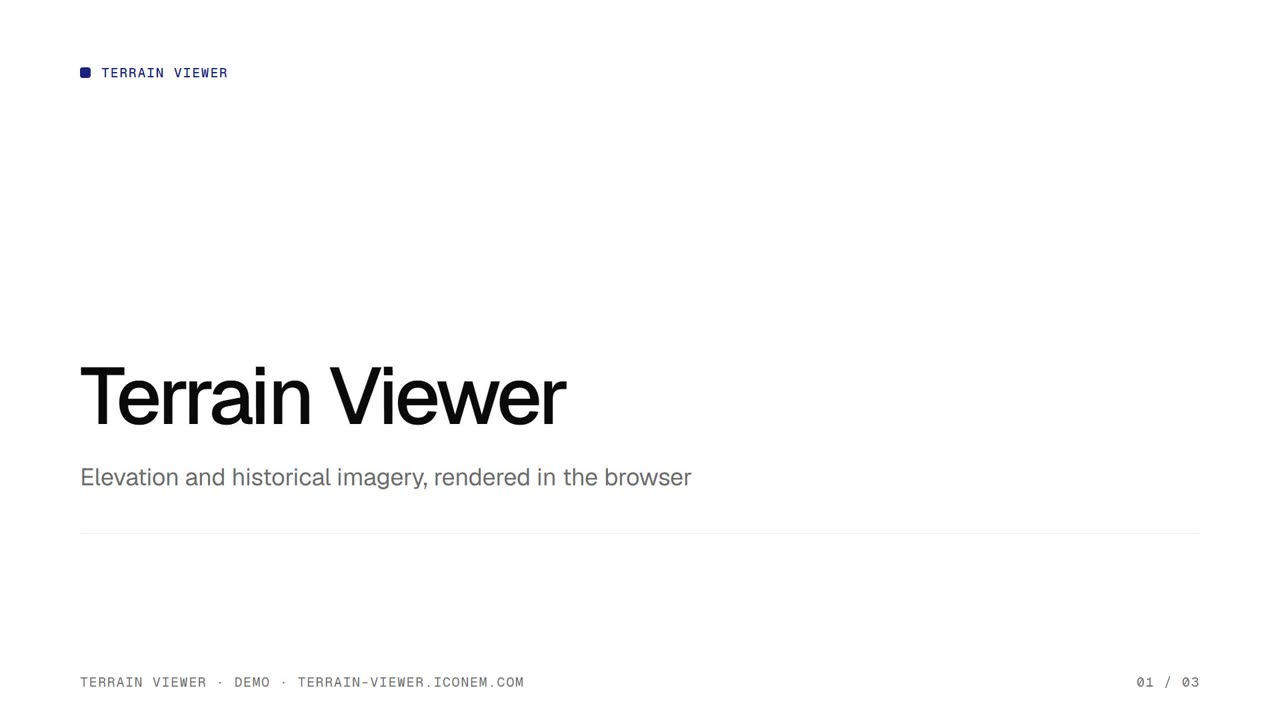
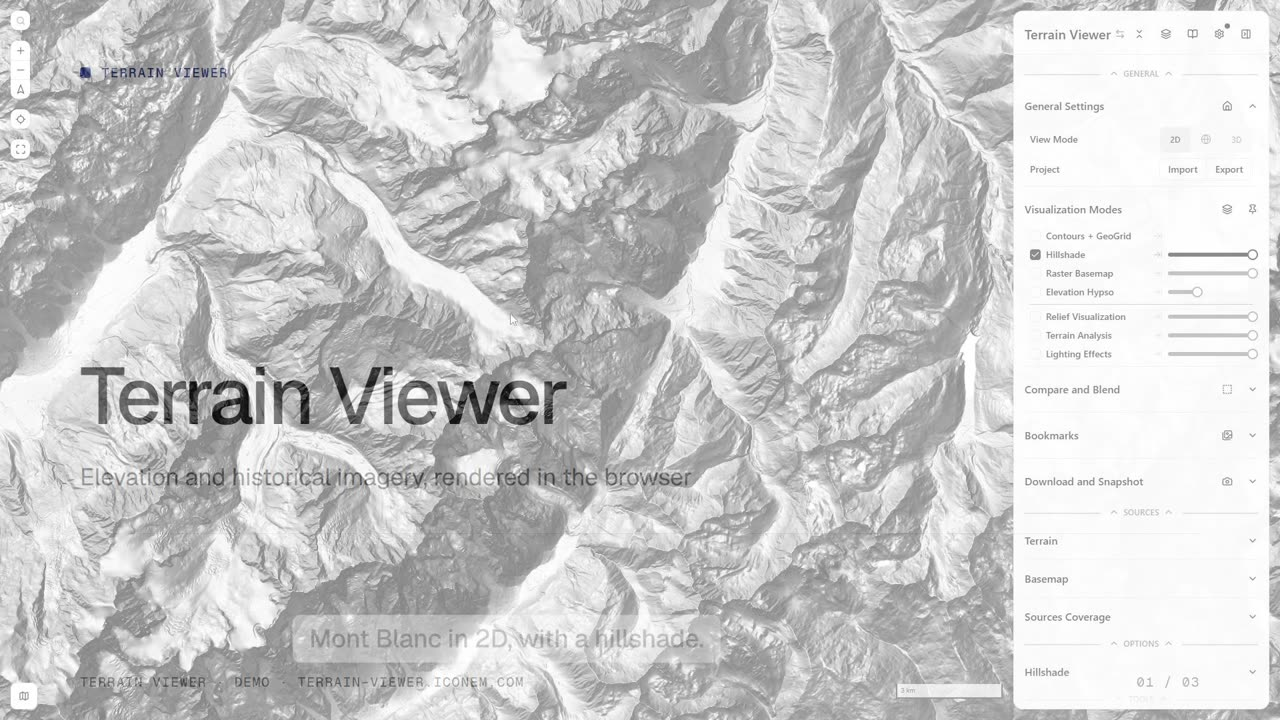
OSM 3D buildings over any basemap: with the 3D switch on, Liberty's extrusion layer alone is installed above Google, Esri or a terrain-only view (OsmBuildingsLayer), not only with the OSM basemap. Docs: diagrams rendered at build time with beautiful-mermaid (one SVG per colour scheme, a code block f

diff --git a/docs/src/components/mermaid.tsx b/docs/src/components/mermaid.tsx
@@ -1,59 +1,40 @@
-'use client';
+// remarkMdxMermaid (source.config.ts) turns ```mermaid fences into
+// <Mermaid chart="..."/>. Rendered at build time with beautiful-mermaid
+// (no DOM, no Mermaid runtime in the browser): the SVG sits in the static
+// HTML, so no bundle on diagram pages and no flash before the diagram shows.
+// Two SVGs are rendered, one per colour scheme, and CSS shows the one that
+// matches the theme (the library takes hex colours, not CSS variables: it
+// derives the secondary colours from bg and fg). The values are the docs'
+// own light and dark tokens. Covered diagram types: flowchart, class,
+// sequence, state, entity relationship, gantt; the docs use the first two.
+// A diagram the library cannot parse falls back to its source in a code block.
+import { renderMermaidSVG } from 'beautiful-mermaid';
 
-import { useEffect, useRef, useState } from 'react';
+const LIGHT = { bg: '#ffffff', fg: '#0a0a0a', accent: '#1a237e', font: 'Geist, Inter, system-ui, sans-serif', transparent: true } as const;
+const DARK = { bg: '#0a0a0a', fg: '#fafafa', accent: '#8c9eff', font: 'Geist, Inter, system-ui, sans-serif', transparent: true } as const;
 
-// remarkMdxMermaid (see source.config.ts) turns ```mermaid fences into
-// <Mermaid chart="..."> — fumadocs-ui doesn't ship a renderer for it in this
-// version, so this is a from-scratch client component. mermaid.js renders to
-// SVG using real browser DOM APIs, so this only works client-side (dynamic
-// import, useEffect) even though the site is otherwise statically exported.
-function useIsDark() {
-  const [isDark, setIsDark] = useState(false);
-
-  useEffect(() => {
-    const root = document.documentElement;
-    const update = () => setIsDark(root.classList.contains('dark'));
-    update();
-    const observer = new MutationObserver(update);
-    observer.observe(root, { attributes: true, attributeFilter: ['class'] });
-    return () => observer.disconnect();
-  }, []);
-
-  return isDark;
+function render(chart: string, colors: typeof LIGHT | typeof DARK): string | null {
+  try {
+    return renderMermaidSVG(chart, { ...colors, padding: 16 });
+  } catch {
+    return null;
+  }
 }
 
-let mermaidIdCounter = 0;
-
 export function Mermaid({ chart }: { chart: string }) {
-  const [svg, setSvg] = useState<string | null>(null);
-  const idRef = useRef(`mermaid-${++mermaidIdCounter}`);
-  const isDark = useIsDark();
-
-  useEffect(() => {
-    let cancelled = false;
-    import('mermaid').then(async ({ default: mermaid }) => {
-      mermaid.initialize({
-        startOnLoad: false,
-        theme: isDark ? 'dark' : 'neutral',
-        securityLevel: 'strict',
-        fontFamily: 'inherit',
-      });
-      const { svg } = await mermaid.render(idRef.current, chart);
-      if (!cancelled) setSvg(svg);
-    });
-    return () => {
-      cancelled = true;
-    };
-  }, [chart, isDark]);
-
-  if (!svg) {
+  const light = render(chart, LIGHT);
+  const dark = render(chart, DARK);
+  if (!light || !dark) {
     return (
-      <div className="my-4 animate-pulse rounded-lg border bg-fd-muted/40 p-8 text-center text-sm text-fd-muted-foreground">
-        Rendering diagram…
-      </div>
+      <pre className="overflow-x-auto rounded-lg border bg-fd-muted p-4 text-sm">
+        <code>{chart}</code>
+      </pre>
     );
   }
-
-  // eslint-disable-next-line react/no-danger -- mermaid's own SVG output, not user input
-  return <div className="my-4 flex justify-center overflow-x-auto rounded-lg border bg-fd-card p-4 [&_svg]:h-auto [&_svg]:max-w-full" dangerouslySetInnerHTML={{ __html: svg }} />;
+  return (
+    <div className="my-6 overflow-x-auto [&_svg]:mx-auto [&_svg]:h-auto [&_svg]:max-w-full">
+      <div className="dark:hidden" dangerouslySetInnerHTML={{ __html: light }} />
+      <div className="hidden dark:block" dangerouslySetInnerHTML={{ __html: dark }} />
+    </div>
+  );
 }

diff --git a/components/LayersAndSources/MapSources.tsx b/components/LayersAndSources/MapSources.tsx
@@ -1,10 +1,10 @@
 import { memo, useMemo, useState, useEffect, useRef } from "react"
-import { VectorBasemapLayer } from "./VectorBasemapLayer"
+import { VectorBasemapLayer, OsmBuildingsLayer } from "./VectorBasemapLayer"
 import { Source } from "react-map-gl/maplibre"
 import { useAtom, useAtomValue } from "jotai"
 import { terrainSources } from "@/lib/terrain-sources"
 import type { TerrainSource, TerrainSourceConfig } from "@/lib/terrain-types"
-import { useCogProtocolVsTitilerAtom, highResTerrainAtom, viewportCenterAtom, cesiumDetailOffsetAtom, allmapsRemoveColorAtom, type CustomTerrainSource, type AllmapsRemoveColor } from "@/lib/settings-atoms"
+import { useCogProtocolVsTitilerAtom, highResTerrainAtom, viewportCenterAtom, cesiumDetailOffsetAtom, osmBuildings3dAtom, allmapsRemoveColorAtom, type CustomTerrainSource, type AllmapsRemoveColor } from "@/lib/settings-atoms"
 import { buildUnpaperUrl, sampleTileFor } from "@/lib/unpaper-protocol"
 
 /** A scanned map's tile template through unpaper:// when the paper removal
@@ -495,6 +495,7 @@ export const RasterBasemapSource = memo(({
 }) => {
     const [useCogProtocol] = useAtom(useCogProtocolVsTitilerAtom)
     const cesiumDetailOffset = useAtomValue(cesiumDetailOffsetAtom)
+    const osmBuildings3d = useAtomValue(osmBuildings3dAtom)
     // Unused directly — read so this component re-renders when a local COG file
     // is (re-)picked (see custom-source-details.tsx's "Re-select file…" flow).
     useAtomValue(localFileVersionAtom)
@@ -608,9 +609,13 @@ export const RasterBasemapSource = memo(({
     // "osm" is OpenFreeMap's Liberty vector style, not raster tiles: the
     // layers are inserted at the basemap slot by VectorBasemapLayer.
     if (basemapSource === "osm") return <VectorBasemapLayer visible={vectorVisible} opacity={vectorOpacity} />
-    if (!sourceProps) return null
+    // The 3D switch next to OSM draws the extruded buildings over any other
+    // basemap too (and over a terrain-only view): Liberty's extrusion layer alone.
+    const buildings = osmBuildings3d ? <OsmBuildingsLayer /> : null
+    if (!sourceProps) return buildings
 
-    return (
+    return (<>
+        {buildings}
         <Source
             id="raster-basemap-source"
             // resolvedCogUrl in the key: re-picking a different file for the same
@@ -631,7 +636,7 @@ export const RasterBasemapSource = memo(({
             maxzoom={zoomRange.maxzoom}
             {...sourceProps}
         />
-    )
+    </>)
 })
 RasterBasemapSource.displayName = "RasterBasemapSource"
 

diff --git a/components/LayersAndSources/VectorBasemapLayer.tsx b/components/LayersAndSources/VectorBasemapLayer.tsx
@@ -104,3 +104,40 @@ export const VectorBasemapLayer: React.FC<{ opacity?: number; visible?: boolean 
 
   return null
 }
+
+/**
+ * The 3D buildings alone, over any other basemap: when the "3D" switch next
+ * to OSM (OpenFreeMap Liberty) is on but another basemap is selected, this
+ * installs Liberty's OpenMapTiles source and its fill-extrusion layer only,
+ * above the basemap slot, so the extruded buildings draw over Google, Esri or
+ * a terrain-only view. Removed on unmount; the switch off unmounts it.
+ */
+export const OsmBuildingsLayer: React.FC = () => {
+  const { current: mapRef } = useMap()
+  useEffect(() => {
+    const map = mapRef?.getMap()
+    if (!map) return
+    let cancelled = false
+    const added: { sources: string[]; layers: string[] } = { sources: [], layers: [] }
+    const install = (style: StyleSpecification) => {
+      if (cancelled || !map.getStyle()) return
+      const layer = style.layers.find((l) => l.id === "building-3d") as (LayerSpecification & { source?: string }) | undefined
+      if (!layer?.source) return
+      const sid = PREFIX + layer.source
+      if (!map.getSource(sid)) { map.addSource(sid, style.sources[layer.source] as SourceSpecification); added.sources.push(sid) }
+      const lid = `${PREFIX}building-3d-only`
+      if (!map.getLayer(lid)) {
+        const before = map.getLayer(LAYER_SLOTS.OVERLAYS) ? LAYER_SLOTS.OVERLAYS : undefined
+        try { map.addLayer({ ...layer, id: lid, source: sid } as LayerSpecification, before); added.layers.push(lid) } catch { /* style changed */ }
+      }
+    }
+    loadStyle().then(install).catch(() => {})
+    return () => {
+      cancelled = true
+      if (!map.getStyle()) return
+      for (const id of added.layers) { try { if (map.getLayer(id)) map.removeLayer(id) } catch { /* torn down */ } }
+      for (const id of added.sources) { try { if (map.getSource(id)) map.removeSource(id) } catch { /* torn down */ } }
+    }
+  }, [mapRef])
+  return null
+}

diff --git a/docs/src/app/(home)/page.tsx b/docs/src/app/(home)/page.tsx
@@ -28,15 +28,15 @@ const FEATURES = [
   {
     title: 'Historical Imagery',
     body: 'Browse decades of historical satellite imagery (Wayback, HLS, Google Earth Historical, Planet) along a draggable timeline, per view.',
-    image: '/docs/screenshots/historical-timeline.jpg',
-    alt: 'Scrubbing the historical imagery timeline',
+    image: '/docs/screenshots/timeline-tick-card.jpg',
+    alt: 'The historical timeline with a tick card open',
     href: '/features/historical-imagery',
   },
   {
     title: 'Split Screen & N-Map Compare',
     body: 'Side-by-side, overlay/blend, or up to an 8-view grid to compare terrain sources, basemaps, or historical dates against each other.',
-    image: '/docs/screenshots/n-grid.jpg',
-    alt: 'Comparing basemap sources side-by-side',
+    image: '/docs/screenshots/split-modes/viz-grid-4x2.jpg',
+    alt: 'Eight visualization modes in a 4 by 2 grid',
     href: '/features/split-modes',
   },
 ];
@@ -74,7 +74,7 @@ export default function HomePage() {
       {/* The narrated demo, from the Demo videos page's player: a poster
           until pressed, then the MP4 streams from the demo-takes release. */}
       <section className="mx-auto w-full max-w-6xl px-6 pt-16">
-        <h2 className="text-center text-2xl font-semibold tracking-tight">Two and a half minutes of it</h2>
+        <h2 className="text-center text-2xl font-semibold tracking-tight">Demo video</h2>
         <p className="mt-2 text-center text-fd-muted-foreground">Slope and hypsometric tint over Mont Blanc, then the Champ de Mars across fifteen years of imagery.</p>
         <DemoCut />
       </section>

diff --git a/docs/src/components/feature-lightbox.tsx b/docs/src/components/feature-lightbox.tsx
@@ -22,7 +22,7 @@ export function FeatureGrid({ features }: { features: Feature[] }) {
             src={f.image}
             alt={f.alt}
             loading="lazy"
-            className="w-full rounded-xl border object-cover transition-opacity group-hover:opacity-90"
+            className="aspect-video w-full rounded-xl border object-cover object-top transition-opacity group-hover:opacity-90"
           />
           <h2 className="text-lg font-semibold group-hover:underline">{f.title}</h2>
           <p className="text-sm text-fd-muted-foreground">{f.body}</p>

diff --git a/CHANGELOG.md b/CHANGELOG.md
@@ -1,3 +1,31 @@
+# Changelog — Shadows on Terrain, the Docs Home and Demo Videos, Eight Upstream Requests
+
+<!-- released: 2026-10-15 -->
+
+#### TL;DR
+
+- **The app**: building shadows drape on 3D terrain (MapLibre 6.13's new per-tile hook), the OSM 3D buildings draw over any basemap while their switch is on, B toggles the Overlay blend, a Bookmarks row in the storage settings, the see-through panel keeps the held control on its own band, a bottom sheet on phones, nine event DEMs and the Kilauea lidar in the library, the desktop launcher takes a project file.
+- **The docs**: a real home page with the demo embedded, a Demo videos page (the narrated cut, the two takes, a screencast by hand), Fumadocs Studio for visual editing with an Edit in Studio button, Fumadocs 16.17.3 with the stock page actions back, diagrams rendered at build time, app buttons in the header and the sidebar, short sidebar titles.
+- **Upstream**: eight requests posted this week with reproductions and pictures (Allmaps, Electrobun, MapLibre, geomatico, Fumadocs), one already shipped by Fumadocs, one withdrawn after a live check; the rest drafted on the Upstream requests page.
+
+#### Details
+
+In short, since October 8: the hard building shadows follow the relief, the docs site got a front door and a video page, and the week's upstream asks went out with evidence.
+
+- Building shadows on terrain: the layer implements MapLibre 6.13's experimental `renderToTerrainTile`, drawing its mask per terrain tile so MapLibre drapes it; the sweep length stays the flat-ground one. The footprints come from z14 OpenFreeMap tiles the layer fetches itself for the viewport widened by the longest shadow, so a tower just off screen still casts in. Sun Position documents it.
+- OSM 3D buildings over any basemap: the 3D switch next to OpenStreetMap (OpenFreeMap Liberty) now installs the extrusion layer alone above Google, Esri or a terrain-only view, instead of only with the OSM basemap.
+- B toggles the Blend Mode effect of the Overlay split (the picked mode stays); the switch tooltip and the Keyboard Shortcuts page say so.
+- Settings, Browser Local Storage Persistence: a Bookmarks row with the count, the views, the stored size and a Clear (confirmed), beside the two OPFS stores.
+- See-through panel: the held slider or pad keeps a band of its own while the card drops to 8%; the macro-group rows fade with the rest. Phone portrait: the side panel is a bottom sheet, the timeline floats over it, 8 px margins everywhere.
+- Library: nine event DEMs from OpenTopography (landslides, eruptions, floods) through titiler, and the Kilauea 2018 lower East Rift Zone lidar with its lava-thickness difference. Titiler: no per-view maxzoom probe, the host as a cache key, the nodata value encoded, VRTs too. Local COG files list every problem of a file.
+- Desktop: `launcher.exe C:pathproject.json` imports a project (Windows reads the launcher's own command line); an AppUserModelID; web app manifests per host (Add to Home Screen); the light build has its pictures again.
+- Docs home: the Sky-View Factor picture as the hero, Launch the app and Read the docs side by side, quick links, the narrated demo embedded, feature cards of one aspect ratio.
+- Demo videos page: the 145 s narrated cut, the two takes it was cut from (re-recorded after the see-through fix) and a screencast by hand, streamed from the demo-takes release behind poster frames; the release keeps the current files only.
+- Fumadocs Studio: `pnpm docs` starts the visual editor beside Next; a config draws our components (Gallery from its literal, the data tables as cards) in visual mode and serves the screenshots; an Edit in Studio button appears on a localhost docs server when a Studio answers.
+- Fumadocs 16.17.3: the stock page actions are back, since Next 16.3's Turbopack gives them the base path (our copy had started doubling it). Diagrams render at build time with beautiful-mermaid, no Mermaid runtime in the browser. A `sidebarTitle` field gives seventeen pages a short sidebar name. A mountain button in the header and before the sidebar title opens the app.
+- Upstream, posted: Fumadocs lightbox and gallery (shipped in 16.17.3 the next day) and the sidebar title; Allmaps WarpedMapLayer with pitch, terrain and globe (issue 666, after the Explore showcase on 622); Electrobun's launcher arguments (483) and a per-variant update feed (577); MapLibre's renderToTerrainTile feedback (8588); geomatico's bilinear upsampling past the finest overview (56, with a hosted reproduction page and two pictures) and a configurable no-data height (57). The Fumadocs page-actions report was withdrawn after clicking the stock buttons on a static export. Drafted: maplibre-contour 434, Mapterhorn 27, Planet's browser OAuth client (self-service is closed for our account), Allmaps plain images.
+- Analytics and search: Umami reports from the real hostnames only with the website id from the build environment, the early-October spike explained (a local clone); a Bing Webmaster script; page titles rewritten for search; the historical host gets its own title and Open Graph tags.
+
 # Changelog — Yandex, Historical Imagery Out of Beta, Guarded Match Colors
 
 <!-- released: 2026-10-08 -->
